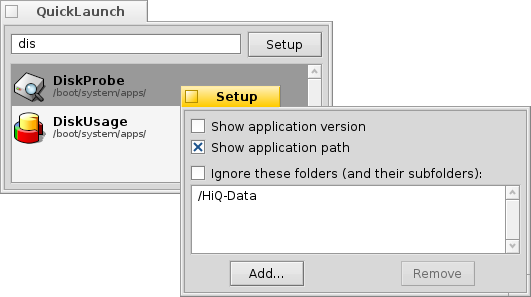
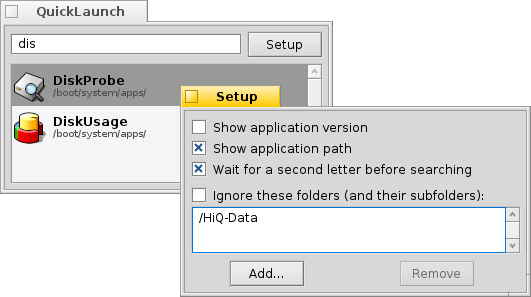
Version 0.9.7
* Added a setting to only start searching after entering a second letter of the
  application name.
* Respecting custom colours set in Appearance preferences.
* Renamed "jokers" to "wildcards".
* Updated documentation.
* Minor cleanup.

Changed region(s): [[0.3616, 0.3939, 0.9944, 0.7576], [0.3616, 0.8485, 0.9944, 0.9394], [0.9341, 0.7879, 0.9642, 0.8182]]

diff --git a/ReadMe.html b/ReadMe.html
@@ -60,7 +60,7 @@ h3 {
 for <a href="http://www.haiku-os.org">Haiku</a><br />
 <i>by Humdinger</i></p>
 <hr />
-<p id="index"><a href="#tips+tricks">Tips and Tricks</a> &mdash; <a href="#download">Download</a> &mdash; <a href="#bug+feedback">Bugreports and Feedback</a> &mdash; <a href="#thanks">Thanks</a> &mdash; <a href="#history">History</a><p>
+<p id="index"><a href="#tips+tricks">Tips and Tricks</a> &mdash; <a href="#download">Download</a> &mdash; <a href="#bugs+feedback">Bugreports and Feedback</a> &mdash; <a href="#thanks">Thanks</a> &mdash; <a href="#history">History</a><p>
 </div>
 <hr />
 <p><br /></p>
@@ -71,10 +71,11 @@ for <a href="http://www.haiku-os.org">Haiku</a><br />
 <div align = "center">
 <img src="./images/quicklaunch.png" alt="QuickLaunch windows" />
 </div>
-<p>The setup window shows three options:</p>
+<p>The setup window shows four options:</p>
 <ul>
 <li>Show the version of an application &mdash; only really useful when having older and newer versions of an app installed.</li>
 <li>Show the path to an application &mdash; interesting when you have several copies of an application.</li>
+<li>Wait for a second letter before starting the search &mdash; probably only useful for slow systems.</li>
 <li>Ignore the folders (and their subfolders) that you can add and remove from the list with the buttons at the bottom.</li>
 </ul>
 
@@ -95,7 +96,7 @@ In other words, applications in Trash are ignored, as well as add-ons, and comma
 <a href="#"><img src="images/up.png" style="border:none;float:right" alt="index" /></a>
 <a id="download" name="download">Download</a></h2>
 <p>QuickLaunch is directly available through HaikuDepot from the HaikuPorts repository.<br />
-<p>You can also download the QuickLaunch package (quicklaunch.hpkg) directly from <a href="http://sourceforge.net/projects/quicklaunch-h/files/?source=navbar">Sourceforge</a> where you also find the <a href="http://sourceforge.net/p/quicklaunch-h/code/ci/master/tree/">source code</a> including a Paladin project file and also a Makefile to easily build it yourself</p>
+<p>You can also download the QuickLaunch package (quicklaunch.hpkg) directly from <a href="http://sourceforge.net/projects/quicklaunch-h/files/?source=navbar">Sourceforge</a> where you also find the <a href="http://sourceforge.net/p/quicklaunch-h/code/ci/master/tree/">source code</a> including a Paladin project file and also a Makefile to easily build it yourself.</p>
 
 <h2>
 <a href="#"><img src="images/up.png" style="border:none;float:right" alt="index" /></a>
@@ -151,6 +152,12 @@ Equally useful was Robert Polic's EZLauncher of BeNewsletter 3-46 and the help I
 <p><b>0.9.6</b> - <i>14-10-2013:</i></p>
 <ul>
 <li>Small changes to work under Haiku with package management.</li>
+</ul>
+<p><b>0.9.7</b> - <i>17-05-2014:</i></p>
+<ul>
+<li>Added a setting to only start searching after entering a second letter of the application name.</li>
+<li>Respecting custom colours set in Appearance preferences.</li>
+<li>Renamed "jokers" to "wildcards".</li>
 </ul>
 
 </body>

diff --git a/MainListView.cpp b/MainListView.cpp
@@ -8,6 +8,7 @@
 
 #include "MainListView.h"
 #include "MainWindow.h"
+#include "QuickLaunch.h"
 
 MainListView::MainListView()
 		  : BListView(BRect(), "ResultList", B_SINGLE_SELECTION_LIST, B_WILL_DRAW)
@@ -27,23 +28,25 @@ MainListView::Draw(BRect rect)
 	int letters = window->GetStringLength();
 	float width, height;
 	BFont font;
-	if (IsEmpty() && letters > 0) {
-		BString *string = new BString("Found no matches.");
-   		float strwidth = font.StringWidth("Found no matches.");
-   		GetPreferredSize(&width, &height);
-		GetFont(&font);
-		MovePenTo(width / 2 - strwidth / 2, height / 2 + font.Size() / 2);
-		SetHighColor(ui_color(B_FAILURE_COLOR));
-        DrawString(string->String());
-		delete string;
-	}
-	else if (IsEmpty() && letters == 0) {
+	QLApp *app = dynamic_cast<QLApp *> (be_app);
+	
+	if (IsEmpty() && letters <= app->fSettings->GetDelay()) {
 		BString *string = new BString("Use '*' as wildcards.");
    		float strwidth = font.StringWidth("Use '*' as wildcards.");
    		GetPreferredSize(&width, &height);
 		GetFont(&font);
 		MovePenTo(width / 2 - strwidth / 2, height / 2 + font.Size() / 2);
 		SetHighColor(ui_color(B_MENU_SELECTED_BACKGROUND_COLOR));
+        DrawString(string->String());
+		delete string;
+	}
+	else if (IsEmpty() && letters > app->fSettings->GetDelay()) {
+		BString *string = new BString("Found no matches.");
+   		float strwidth = font.StringWidth("Found no matches.");
+   		GetPreferredSize(&width, &height);
+		GetFont(&font);
+		MovePenTo(width / 2 - strwidth / 2, height / 2 + font.Size() / 2);
+		SetHighColor(ui_color(B_FAILURE_COLOR));
         DrawString(string->String());
 		delete string;
 	}

diff --git a/MainListItem.cpp b/MainListItem.cpp
@@ -69,12 +69,12 @@ MainListItem::DrawItem(BView *view, BRect rect, bool complete)
 
     // set background color
     if (IsSelected()) {
-        view->SetHighColor(ui_color(B_MENU_SELECTED_BACKGROUND_COLOR));
-        view->SetLowColor(ui_color(B_MENU_SELECTED_BACKGROUND_COLOR));
+        view->SetHighColor(ui_color(B_LIST_SELECTED_BACKGROUND_COLOR));
+        view->SetLowColor(ui_color(B_LIST_SELECTED_BACKGROUND_COLOR));    	
     }
     else {
-        view->SetHighColor(ui_color(B_CONTROL_BACKGROUND_COLOR));
-        view->SetLowColor(ui_color(B_CONTROL_BACKGROUND_COLOR));
+        view->SetHighColor(ui_color(B_LIST_BACKGROUND_COLOR));
+        view->SetLowColor(ui_color(B_LIST_BACKGROUND_COLOR));
     }
     view->FillRect(rect);
 
@@ -89,7 +89,10 @@ MainListItem::DrawItem(BView *view, BRect rect, bool complete)
 
 	// application name
 
-    view->SetHighColor(ui_color(B_CONTROL_TEXT_COLOR));
+    if (IsSelected())
+    	view->SetHighColor(ui_color(B_LIST_SELECTED_ITEM_TEXT_COLOR));
+    else
+    	view->SetHighColor(ui_color(B_LIST_ITEM_TEXT_COLOR));
 
     appfont.GetHeight(&finfo);
     view->SetFont(&appfont);
@@ -114,7 +117,11 @@ MainListItem::DrawItem(BView *view, BRect rect, bool complete)
 
 	// application path and version
 
-    view->SetHighColor(tint_color(ui_color(B_CONTROL_TEXT_COLOR), 0.7));
+    if (IsSelected())
+    	view->SetHighColor(tint_color(ui_color(B_LIST_SELECTED_ITEM_TEXT_COLOR), 0.7));
+    else
+    	view->SetHighColor(tint_color(ui_color(B_LIST_ITEM_TEXT_COLOR), 0.7));
+    	
 	pathfont.SetSize(appfont.Size() - 2);
     pathfont.GetHeight(&finfo);
     view->SetFont(&pathfont);

diff --git a/SetupWindow.cpp b/SetupWindow.cpp
@@ -32,7 +32,9 @@ SetupWindow::SetupWindow(BRect frame)
 	fChkVersion = new BCheckBox("VersionChk", "Show application version",
 									new BMessage(VERSION_CHK), B_WILL_DRAW | B_NAVIGABLE); 
 	fChkPath = new BCheckBox("PathChk", "Show application path",
-									new BMessage(PATH_CHK), B_WILL_DRAW | B_NAVIGABLE); 
+									new BMessage(PATH_CHK), B_WILL_DRAW | B_NAVIGABLE);
+	fChkDelay = new BCheckBox("DelayChk", "Wait for a second letter before searching",
+									new BMessage(DELAY_CHK), B_WILL_DRAW | B_NAVIGABLE); 
 	fChkIgnore = new BCheckBox("IgnoreChk", "Ignore these folders (and their subfolders):",
 									new BMessage(IGNORE_CHK), B_WILL_DRAW | B_NAVIGABLE); 
 	fIgnoreList = new SetupListView();
@@ -46,6 +48,7 @@ SetupWindow::SetupWindow(BRect frame)
 	
 	fChkVersion->SetTarget(be_app);
 	fChkPath->SetTarget(be_app);
+	fChkDelay->SetTarget(be_app);
 	fChkIgnore->SetTarget(be_app);
 
 	// Build the layout
@@ -56,6 +59,7 @@ SetupWindow::SetupWindow(BRect frame)
 		.AddGroup(B_VERTICAL, 0)
 			.Add(fChkVersion)
 			.Add(fChkPath)
+			.Add(fChkDelay)
 			.SetInsets(spacing/2, spacing/2, spacing/2, 0)
 		.End()
 		.AddGroup(B_VERTICAL, 0)
@@ -75,6 +79,7 @@ SetupWindow::SetupWindow(BRect frame)
 	QLApp *app = dynamic_cast<QLApp *> (be_app);
 	fChkVersion->SetValue(app->fSettings->GetShowVersion());
 	fChkPath->SetValue(app->fSettings->GetShowPath());
+	fChkDelay->SetValue(app->fSettings->GetDelay());
 	fChkIgnore->SetValue(app->fSettings->GetShowIgnore());
 }
 

diff --git a/QuickLaunch.cpp b/QuickLaunch.cpp
@@ -35,7 +35,7 @@ QLApp::ReadyToRun()
 	fMainWindow->SetSizeLimits(190.0, 800.0, 90.0, 1000.0);
 	BRect frame = fSettings->GetMainWindowFrame();
 	fMainWindow->MoveTo(frame.LeftTop());
-	fMainWindow->ResizeTo(frame.right - frame.left, 90.0);
+	fMainWindow->ResizeTo(frame.right - frame.left, 93.0);
 	fMainWindow->Show();
 	
 	frame.OffsetBy(70.0, 120.0);
@@ -94,6 +94,16 @@ QLApp::MessageReceived(BMessage* message)
 				fMainWindow->fListView->Invalidate();
 				fMainWindow->UnlockLooper();
 			}
+			break;
+		}
+		case DELAY_CHK:
+		{
+			int32 value;
+			message->FindInt32("be:value", &value);
+			fSettings->SetDelay(value);
+			fMainWindow->LockLooper();
+			fMainWindow->PostMessage('fltr');
+			fMainWindow->UnlockLooper();
 			break;
 		}
 		case IGNORE_CHK:
@@ -162,7 +172,7 @@ QLApp::QuitRequested()
 void
 QLApp::AboutRequested()
 {
-	BAlert *alert = new BAlert("about", "QuickLaunch   v0.9.6\n"
+	BAlert *alert = new BAlert("about", "QuickLaunch   v0.9.7\n"
 		"\twritten by Humdinger\n"
 		"\tCopyright 2010-2013\n\n"
 		"QuickLaunch quickly starts any installed application. "

diff --git a/QLSettings.h b/QLSettings.h
@@ -22,6 +22,7 @@ public:
 	void 		SetSetupWindowBounds(BRect bounds) {fSetupWindowBounds = bounds;};
 	void		SetShowVersion(int32 version) {fShowVersion = version;};
 	void		SetShowPath(int32 path) {fShowPath = path;};
+	void		SetDelay(int32 delay) {fDelay = delay;};
 	void		SetShowIgnore(int32 ignore) {fShowIgnore = ignore;};
 	void		SetItemCount(int32 itemcount) {fItemCount = itemcount;};
 	
@@ -29,6 +30,7 @@ public:
 	BRect 		GetSetupWindowBounds() {return fSetupWindowBounds;};
 	int32		GetShowVersion() {return fShowVersion;};
 	int32		GetShowPath() {return fShowPath;};
+	int32		GetDelay() {return fDelay;};
 	int32		GetShowIgnore() {return fShowIgnore;};
 	int32		GetItemCount() {return fItemCount;};
 	void		InitIgnoreList();
@@ -38,6 +40,7 @@ private:
 	BRect		fSetupWindowBounds;
 	int32		fShowVersion;
 	int32		fShowPath;
+	int32		fDelay;
 	int32		fShowIgnore;
 	int32		fItemCount;
 };

diff --git a/QLSettings.cpp b/QLSettings.cpp
@@ -34,6 +34,7 @@ QLSettings::QLSettings()
 	fSetupWindowBounds = BRect(0.0, 0.0, 340.0, 180.0);
 	fShowVersion = false;
 	fShowPath = true;
+	fDelay = false;
 	fShowIgnore = false;
 	fItemCount = 0;
 
@@ -59,6 +60,10 @@ QLSettings::QLSettings()
 		int32 path;
 		if (settings.FindInt32("show path", &path) == B_OK)
 			fShowPath = path;
+
+		int32 delay;
+		if (settings.FindInt32("delay", &delay) == B_OK)
+			fDelay = delay;
 
 		int32 ignore;
 		if (settings.FindInt32("show ignore", &ignore) == B_OK)
@@ -102,6 +107,7 @@ QLSettings::~QLSettings()
 	settings.AddRect("setup window bounds", app->fSetupWindow->Bounds());
 	settings.AddInt32("show version", fShowVersion);
 	settings.AddInt32("show path", fShowPath);
+	settings.AddInt32("delay", fDelay);
 	settings.AddInt32("show ignore", fShowIgnore);
 	settings.AddInt32("item count", fItemCount);
 

diff --git a/MainWindow.cpp b/MainWindow.cpp
@@ -74,7 +74,7 @@ void
 MainWindow::BuildList(const char *predicate)
 {
 	fListView->MakeEmpty();
-	
+
 	BVolumeRoster volumeRoster;
 	BVolume volume;
 	BQuery query;
@@ -327,8 +327,9 @@ MainWindow::MessageReceived(BMessage* message)
 		}
 		case NEW_FILTER:
 		{
+			QLApp *app = dynamic_cast<QLApp *> (be_app);
 			int letters = GetStringLength();
-			if (letters > 0) {
+			if (letters > app->fSettings->GetDelay()) {
 				const char *searchString = GetSearchString();
 				BuildList(searchString);
 				fListView->Select(0);

diff --git a/SetupWindow.h b/SetupWindow.h
@@ -37,12 +37,11 @@
 
 #define VERSION_CHK	'chve'
 #define PATH_CHK	'chpa'
+#define DELAY_CHK	'chde'
 #define IGNORE_CHK	'chig'
 #define ADD_BUT		'addb'
 #define REM_BUT		'remb'
 #define FILEPANEL	'file'
-
-#define kINSET			5
 
 
 class SetupWindow : public BWindow {
@@ -56,6 +55,7 @@ public:
 	BButton			*fButRem;
 	BCheckBox		*fChkVersion;
 	BCheckBox		*fChkPath;
+	BCheckBox		*fChkDelay;
 	BCheckBox		*fChkIgnore;
 	SetupListView	*fIgnoreList;
 	

diff --git a/MainWindow.h b/MainWindow.h
@@ -44,7 +44,6 @@
 #define SETUP_BUTTON	'setb'
 
 #define kMAX_DISPLAYED_ITEMS		9
-#define kINSET			5
 
 
 class MainWindow : public BWindow {
